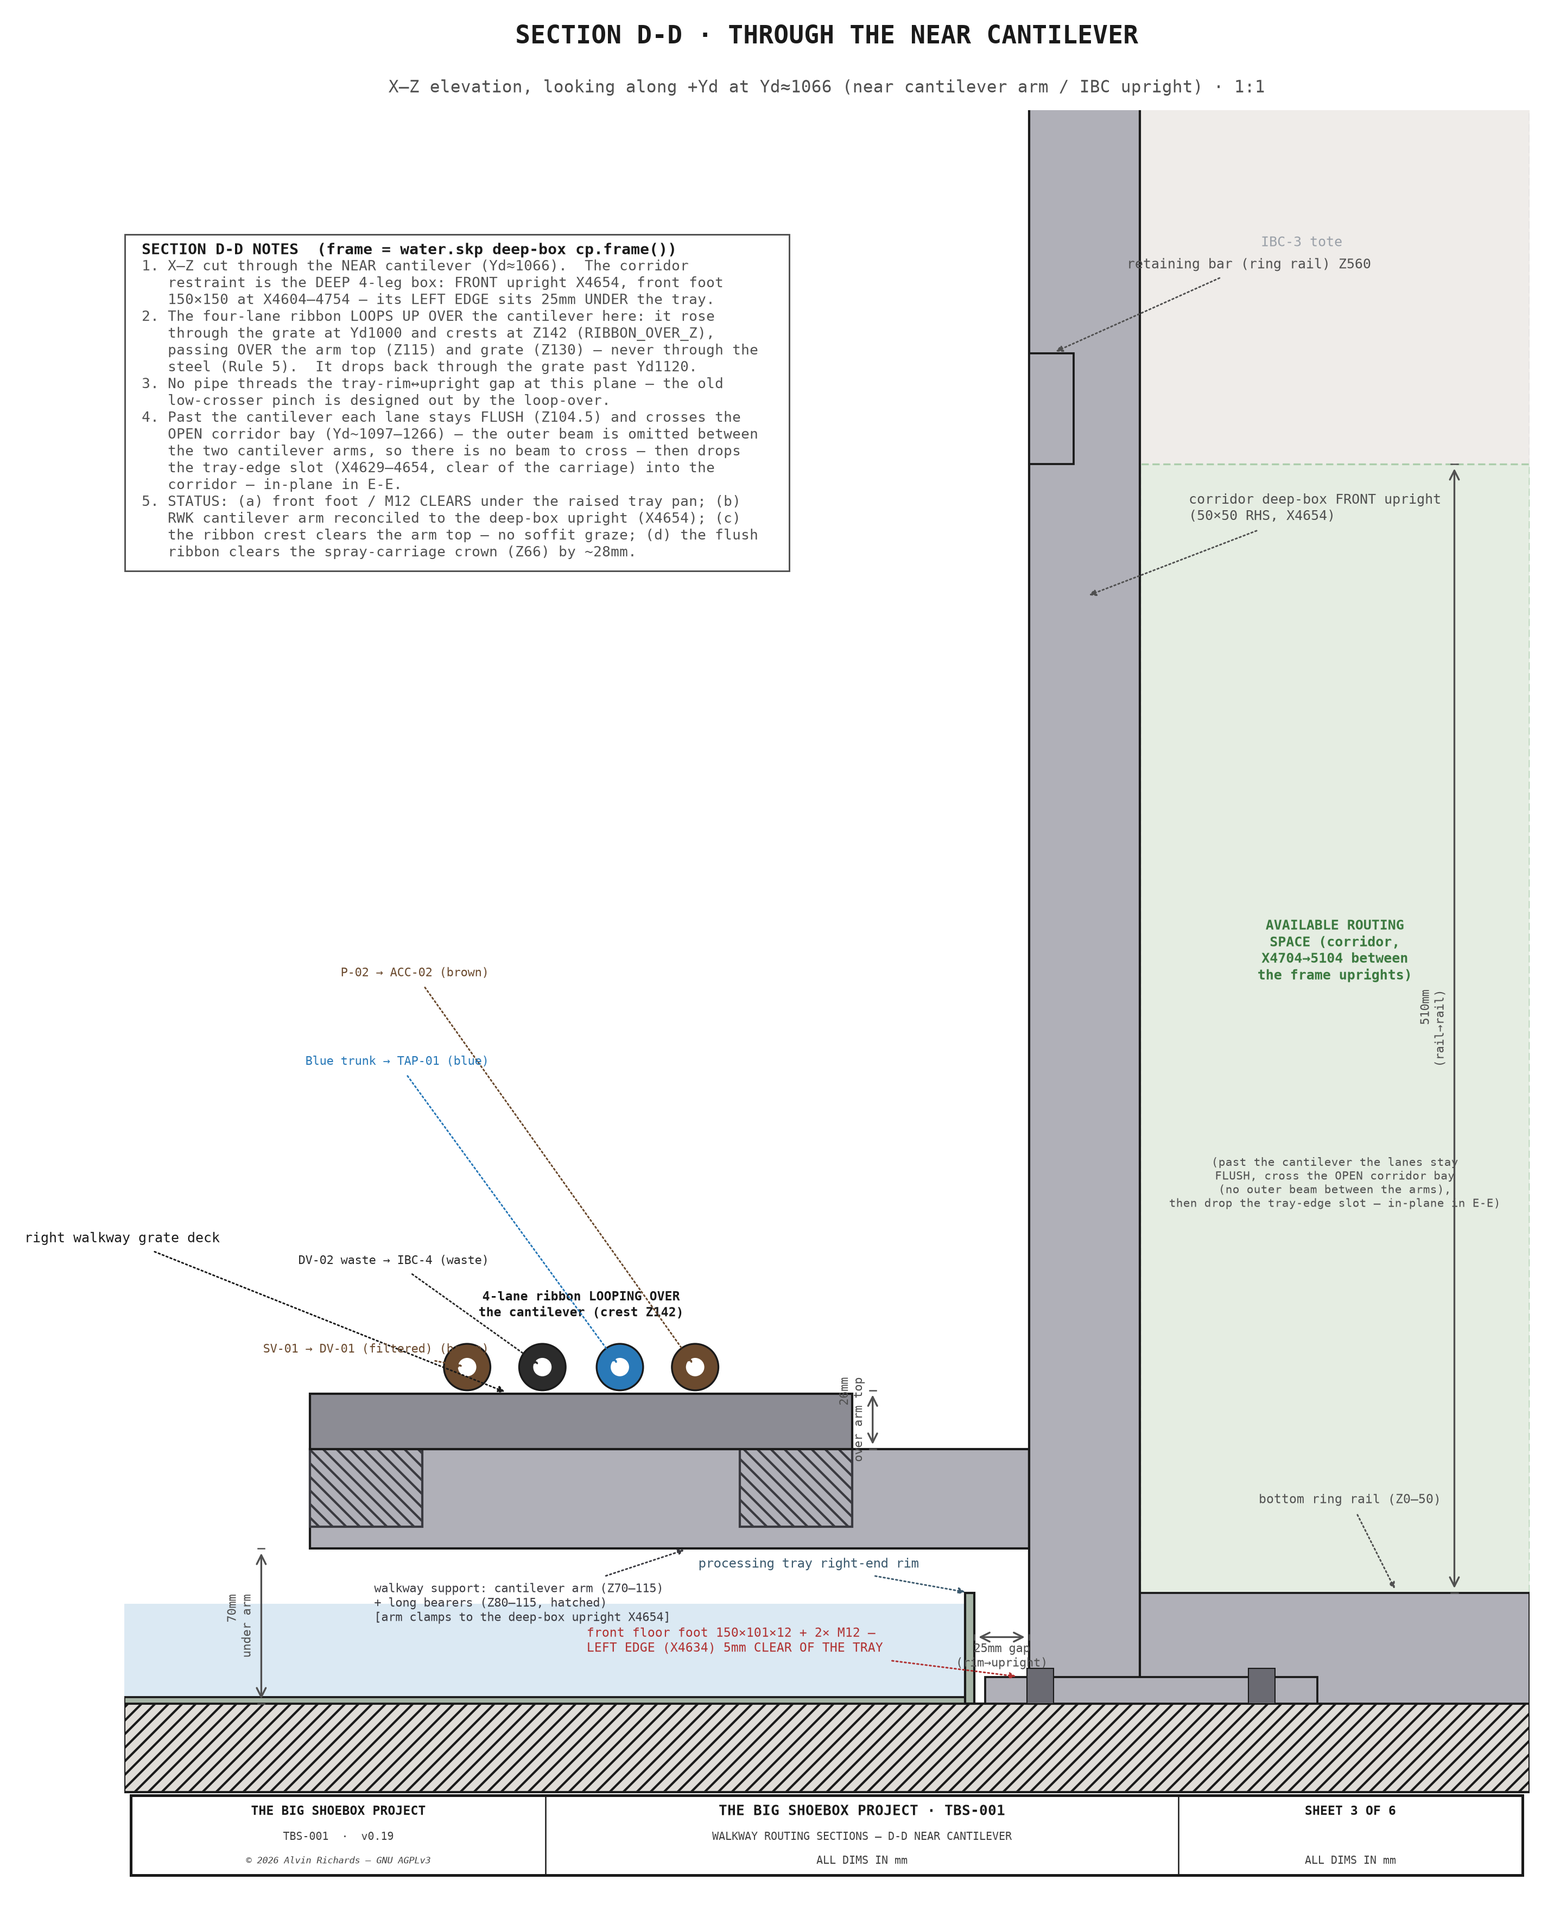
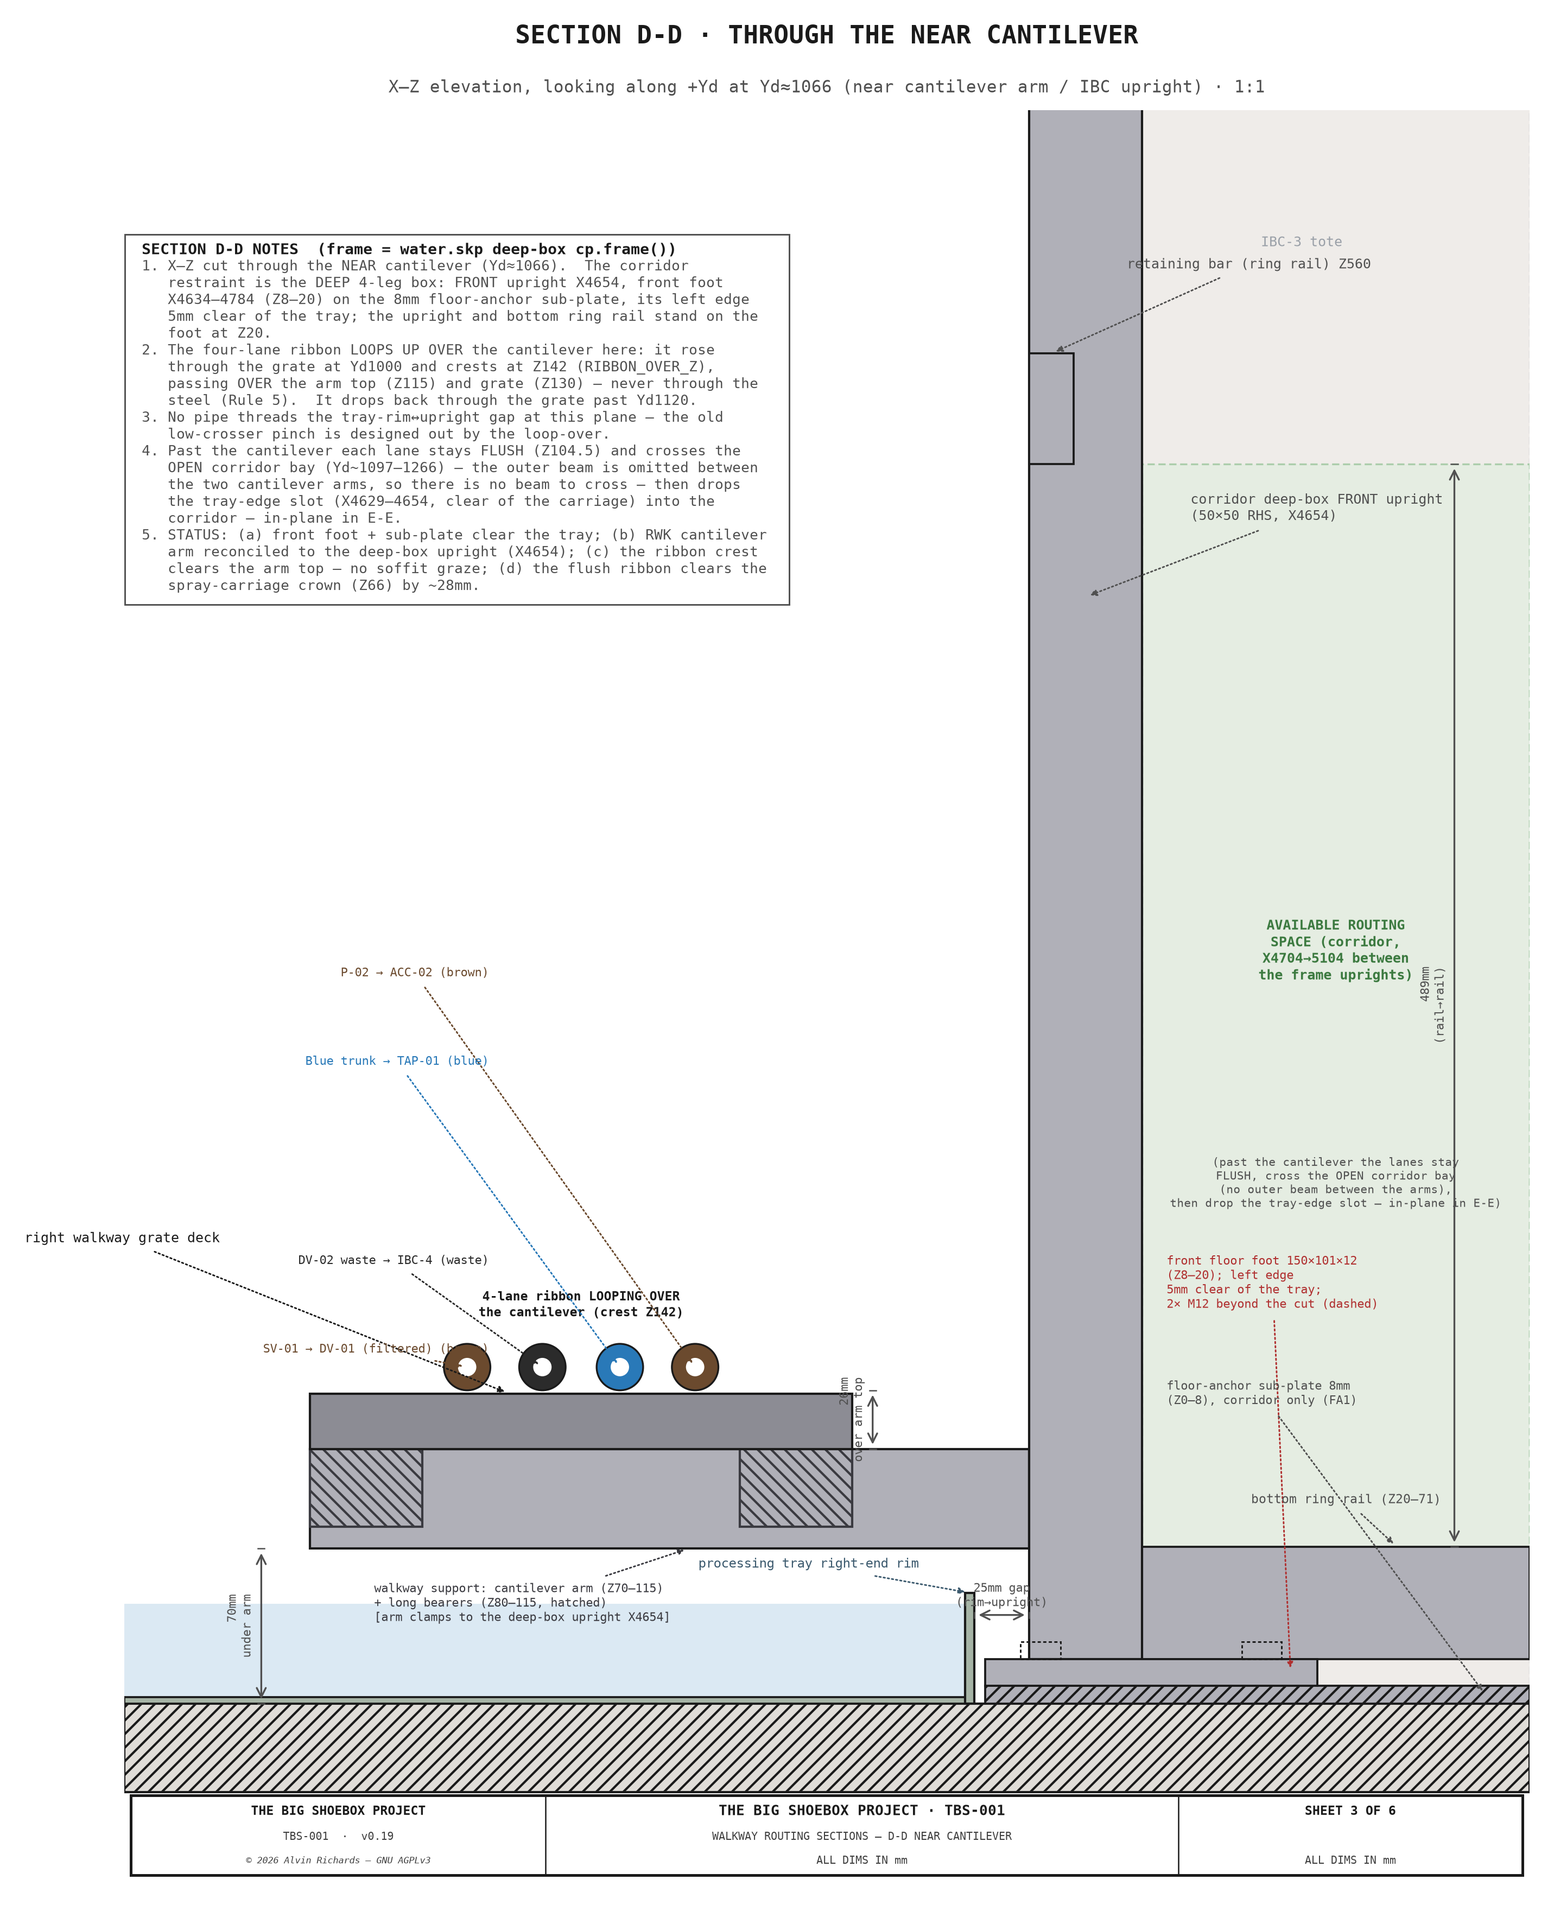
Walkway sections D-D/F-F: frame base as built — sub-plate Z0–8, foot plate Z8–20, upright + bottom ring rail from Z20; foot bolts shown hidden (beyond the cut); geometry from constants

diff --git a/src/generators/generate_walkway_sections.py b/src/generators/generate_walkway_sections.py
@@ -33,7 +33,7 @@ sys.path.insert(0, os.path.join(os.path.dirname(os.path.abspath(__file__)),
 import generate_corridor_water_panel as cp   # ribbon geometry (single source)
 import generate_pinhole_water_panel as pw    # P-02/DV-01/SV-01 + ribbon corridor ends (water.skp build)
 from tbs_constants import IBC_COL_X, WALKWAY_H, WALKWAY_GRATE_T, WALKWAY_RIGHT_X, WALKWAY_RIGHT_W, WALKWAY_LEFT_X, WALKWAY_W, RWK_BEARER_W, RWK_BEARER_XS, RWK_BEARER_Z0, PROC_TRAY_X_R, PROC_TRAY_X_L, PROC_TRAY_RIM, PROC_TRAY_YD_NEAR, PROC_TRAY_YD_FAR, PROC_TRAY_D, PROC_TRAY_SUMP_Z, PROC_TRAY_SUMP_W, PROC_TRAY_DRAIN_X, PROC_TRAY_FLOOR_Z_LOW, tray_floor_z, tray_rim_top_z, spray_beam_top_z, DIAGRAMS_DIR
-from tbs_constants import IBC_FOOT_PLATE, IBC_FOOT_PLATE_D, IBC_FOOT_PLATE_T, IBC_FOOT_BOLT_PCD, IBC_FOOT_BOLT_N, IBC_FOOT_TRAY_GAP, IBC_FRONT_FOOT_DX
+from tbs_constants import FLOOR_PLATE_T, IBC_FOOT_PLATE, IBC_FOOT_PLATE_D, IBC_FOOT_PLATE_T, IBC_FOOT_BOLT_PCD, IBC_FOOT_BOLT_N, IBC_FOOT_TRAY_GAP, IBC_FRONT_FOOT_DX
 from tbs_constants import DIAGRAM_DPI, FONT, BG, C_OUT, C_DIM, C_STEEL, C_PIPE_FRESH, C_PIPE_RECYCLE, C_PIPE_WASTE
 
 # ── Palette (C_OUT/C_DIM from tbs_constants) ─────────────────────────────────────
@@ -94,17 +94,32 @@ def _ribbon_circles(ax, z=None, r=None, z0=12, label=False, fs=5.4):
 # water.skp restraint = cp.frame() DEEP 4-leg box: FRONT upright X4654; the front foot is shifted +X
 # (IBC_FRONT_FOOT_DX) so its left edge clears the tray right edge by IBC_FOOT_TRAY_GAP.
 ARM_X0, ARM_X1, ARM_ZB, ARM_ZT = WALKWAY_RIGHT_X, 4654, 70, 115   # RWK cantilever arm — clamps to the deep-box upright X4654 (reconciled from 4734)
-UP_X0, UP_X1 = 4654, 4704            # corridor deep-box FRONT upright (50×50 RHS)
+UP_X0, UP_X1 = cp.FRONT_X, cp.FRONT_X + cp.S                     # corridor deep-box FRONT upright (2×2 SHS)
+SUB_ZT = FLOOR_PLATE_T                                             # floor-anchor sub-plate Z0–8 (feet + rails sit on it)
+FRAME_Z0 = cp.FRAME_BASE_Z                                         # upright + bottom-rail base Z20 (on the foot plate)
 _FOOT_CX = cp.FRONT_X + cp.S / 2 + IBC_FRONT_FOOT_DX
-FOOT_X0, FOOT_X1, FOOT_ZT = _FOOT_CX - IBC_FOOT_PLATE / 2, _FOOT_CX + IBC_FOOT_PLATE / 2, IBC_FOOT_PLATE_T   # front floor foot
-M12_XS = [_FOOT_CX - IBC_FOOT_BOLT_PCD / 2, _FOOT_CX + IBC_FOOT_BOLT_PCD / 2]   # the foot's 2× M12 (corridor-side tab)
-BRAIL_X0, BRAIL_X1, BRAIL_Z = 4704, 5104, 50                      # deep-box BOTTOM ring rail (X), Z0-50
+FOOT_X0, FOOT_X1 = _FOOT_CX - IBC_FOOT_PLATE / 2, _FOOT_CX + IBC_FOOT_PLATE / 2   # front floor foot, Z8–20
+SUB_X0, SUB_X1 = FOOT_X0, cp.BACK_X + cp.S / 2 + IBC_FOOT_PLATE / 2 + 30          # sub-plate X span (= the 3D)
+M12_XS = [_FOOT_CX - IBC_FOOT_BOLT_PCD / 2, _FOOT_CX + IBC_FOOT_BOLT_PCD / 2]   # the foot's bolts (corridor-side tab, beyond the cut)
+BRAIL_X0, BRAIL_Z = UP_X1, FRAME_Z0 + cp.S                        # deep-box BOTTOM ring rail (X), Z20–70.8 — BRAIL_Z = its top
 RAIL_X0, RAIL_X1, RAIL_ZB, RAIL_ZT = 4654, 4674, 560, 610         # front retaining bar (ring rail) Z560
 
 
 def _rect(ax, x, z, w, h, fc, ec=C_OUT, lw=0.9, hatch=None, z0=5, alpha=1.0, ls="-"):
     ax.add_patch(Rectangle((x, z), w, h, facecolor=fc, edgecolor=ec,
                             linewidth=lw, hatch=hatch, zorder=z0, alpha=alpha, linestyle=ls))
+
+
+def _frame_base(ax, x_hi, z_top):
+    """Deep-box frame base in a cut at an upright's Yd: sub-plate on the floor, foot plate on it, upright +
+    bottom ring rail standing on the foot, the foot bolts (in the corridor-side tab, beyond the cut)."""
+    _rect(ax, SUB_X0, 0, min(SUB_X1, x_hi) - SUB_X0, SUB_ZT, C_STEEL, lw=0.9, z0=8, hatch="////")      # sub-plate
+    _rect(ax, FOOT_X0, SUB_ZT, FOOT_X1 - FOOT_X0, IBC_FOOT_PLATE_T, C_STEEL, lw=0.9, z0=8)           # foot plate
+    _rect(ax, UP_X0, FRAME_Z0, UP_X1 - UP_X0, z_top - FRAME_Z0, C_STEEL, lw=1.0, z0=6)               # upright
+    _rect(ax, BRAIL_X0, FRAME_Z0, x_hi - BRAIL_X0, BRAIL_Z - FRAME_Z0, C_STEEL, lw=0.9, z0=5)        # bottom ring rail
+    for mx in M12_XS:                                                     # bolt heads beyond the cut, hidden by the upright/rail
+        _rect(ax, mx - 9, FRAME_Z0, 18, 8, "none", ec=C_OUT, lw=0.7, z0=10, ls=(0, (2, 1.5)))
+
 
 
 def _crossing_gaps(a, b, obstacles, gap):
@@ -508,18 +523,17 @@ def sheet3():
            color=C_OUT, fs=6, ha="left", va="center", arrow_style="-|>", font=FONT)
 
     # ── Deep-box FRONT upright + front foot (extends UNDER the tray) + M12 + bottom rail + retaining bar ──
-    _rect(ax, UP_X0, 0, UP_X1 - UP_X0, Z_HI - Z_LO, C_STEEL, lw=1.0, z0=6)                  # front upright X4654-4704
-    _rect(ax, BRAIL_X0, 0, X_HI - BRAIL_X0, BRAIL_Z, C_STEEL, lw=0.9, z0=5)                 # deep-box bottom ring rail (→X5104)
-    _rect(ax, FOOT_X0, 0, FOOT_X1 - FOOT_X0, FOOT_ZT, C_STEEL, lw=0.9, z0=8)                # front foot
-    for mx in M12_XS:
-        _rect(ax, mx - 6, 0, 12, 16, "#6A6A72", lw=0.5, z0=9)
+    _frame_base(ax, X_HI, Z_HI - Z_LO)
     _rect(ax, RAIL_X0, RAIL_ZB, RAIL_X1 - RAIL_X0, RAIL_ZT - RAIL_ZB, C_STEEL, lw=0.9, z0=7)  # retaining bar Z560
     leader(ax, (UP_X0 + UP_X1) / 2, 500, UP_X1 + 22, 540, "corridor deep-box FRONT upright\n(50×50 RHS, X4654)",
            color=C_DIM, fs=6, ha="left", va="center", arrow_style="-|>", font=FONT)
-    leader(ax, FOOT_X0 + 16, FOOT_ZT, PROC_TRAY_X_R - 175, 35,
-           f"front floor foot {IBC_FOOT_PLATE}×{IBC_FOOT_PLATE_D:.0f}×{IBC_FOOT_PLATE_T} + {IBC_FOOT_BOLT_N}× M12 —\nLEFT EDGE (X{FOOT_X0:.0f}) {IBC_FOOT_TRAY_GAP}mm CLEAR OF THE TRAY",
-           color="#B03030", fs=5.5, ha="left", va="top", arrow_style="-|>", font=FONT)
-    leader(ax, X_HI - 60, BRAIL_Z, X_HI - 40, 92, "bottom ring rail (Z0–50)",
+    leader(ax, FOOT_X1 - 12, SUB_ZT + IBC_FOOT_PLATE_T / 2, 4716, 190,
+           f"front floor foot {IBC_FOOT_PLATE}×{IBC_FOOT_PLATE_D:.0f}×{IBC_FOOT_PLATE_T}\n(Z{SUB_ZT}–{FRAME_Z0}); left edge\n{IBC_FOOT_TRAY_GAP}mm clear of the tray;\n{IBC_FOOT_BOLT_N}× M12 beyond the cut (dashed)",
+           color="#B03030", fs=5.2, ha="left", va="center", arrow_style="-|>", font=FONT)
+    leader(ax, 4860, SUB_ZT / 2, 4716, 140,
+           f"floor-anchor sub-plate {SUB_ZT}mm\n(Z0–{SUB_ZT}), corridor only (FA1)",
+           color=C_DIM, fs=5.2, ha="left", va="center", arrow_style="-|>", font=FONT)
+    leader(ax, X_HI - 60, BRAIL_Z, X_HI - 40, 92, f"bottom ring rail (Z{FRAME_Z0}–{BRAIL_Z:.0f})",
            color=C_DIM, fs=5.6, ha="right", va="center", arrow_style="-|>", font=FONT)
     leader(ax, (RAIL_X0 + RAIL_X1) / 2, RAIL_ZT, RAIL_X1 + 24, RAIL_ZT + 40,
            "retaining bar (ring rail) Z560", color=C_DIM, fs=6, ha="left", va="center",
@@ -543,17 +557,17 @@ def sheet3():
             fontsize=5.0, ha="center", va="center", color=C_DIM, zorder=10, **FONT)
 
     # ── Dimensions ───────────────────────────────────────────────────────────
-    draw_dim_v(ax, X_HI - 34, BRAIL_Z, RAIL_ZB, f"{RAIL_ZB - BRAIL_Z}mm\n(rail→rail)", offset=5, fs=5.4, font=FONT)
+    draw_dim_v(ax, X_HI - 34, BRAIL_Z, RAIL_ZB, f"{RAIL_ZB - BRAIL_Z:.0f}mm\n(rail→rail)", offset=5, fs=5.4, font=FONT)
     draw_dim_v(ax, ARM_X0 - 22, 0, ARM_ZB, f"{ARM_ZB}mm\nunder arm", offset=5, fs=5.4, font=FONT)
-    draw_dim_h(ax, PROC_TRAY_X_R, UP_X0, 30, f"{UP_X0 - PROC_TRAY_X_R}mm gap\n(rim→upright)", offset=4, fs=5.2, above=False, font=FONT)
+    draw_dim_h(ax, PROC_TRAY_X_R, UP_X0, 40, f"{UP_X0 - PROC_TRAY_X_R}mm gap\n(rim→upright)", offset=4, fs=5.2, above=True, font=FONT)
 
     notes = [
         "SECTION D-D NOTES  (frame = water.skp deep-box cp.frame())",
-        "1. X–Z cut through the NEAR cantilever (Yd≈1066).  The corridor restraint is the DEEP 4-leg box: FRONT upright X4654, front foot 150×150 at X4604–4754 — its LEFT EDGE sits 25mm UNDER the tray.",
+        f"1. X–Z cut through the NEAR cantilever (Yd≈1066).  The corridor restraint is the DEEP 4-leg box: FRONT upright X4654, front foot X{FOOT_X0:.0f}–{FOOT_X1:.0f} (Z{SUB_ZT}–{FRAME_Z0}) on the {SUB_ZT}mm floor-anchor sub-plate, its left edge {IBC_FOOT_TRAY_GAP}mm clear of the tray; the upright and bottom ring rail stand on the foot at Z{FRAME_Z0}.",
         "2. The four-lane ribbon LOOPS UP OVER the cantilever here: it rose through the grate at Yd1000 and crests at Z142 (RIBBON_OVER_Z), passing OVER the arm top (Z115) and grate (Z130) — never through the steel (Rule 5).  It drops back through the grate past Yd1120.",
         "3. No pipe threads the tray-rim↔upright gap at this plane — the old low-crosser pinch is designed out by the loop-over.",
         "4. Past the cantilever each lane stays FLUSH (Z104.5) and crosses the OPEN corridor bay (Yd~1097–1266) — the outer beam is omitted between the two cantilever arms, so there is no beam to cross — then drops the tray-edge slot (X4629–4654, clear of the carriage) into the corridor — in-plane in E-E.",
-        "5. STATUS: (a) front foot / M12 CLEARS under the raised tray pan; (b) RWK cantilever arm reconciled to the deep-box upright (X4654); (c) the ribbon crest clears the arm top — no soffit graze; (d) the flush ribbon clears the spray-carriage crown (Z66) by ~28mm.",
+        "5. STATUS: (a) front foot + sub-plate clear the tray; (b) RWK cantilever arm reconciled to the deep-box upright (X4654); (c) the ribbon crest clears the arm top — no soffit graze; (d) the flush ribbon clears the spray-carriage crown (Z66) by ~28mm.",
     ]
     draw_notes(ax, notes, X_LO + 8, Z_HI - 60, 7.6, fs=6.2,
                font=FONT, width=285, wrap=72, border_color=C_DIM, border_lw=0.7)
@@ -732,14 +746,10 @@ def sheet5():
     leader(ax, 4500, ARM_ZB, 4358, 60, "walkway support: far cantilever arm (Z70–115)\n+ long bearers (Z80–115, hatched)", color="#3A3A40", fs=5.2, ha="left", va="top", arrow_style="-|>", font=FONT)
     leader(ax, WALKWAY_RIGHT_X + 90, WALKWAY_H, 4358, 175, "right walkway grate deck (Z115–130)", color=C_OUT, fs=6, ha="left", va="center", arrow_style="-|>", font=FONT)
     # far upright + far foot (also under tray) + M12 + bottom rail + retaining bar
-    _rect(ax, UP_X0, 0, UP_X1 - UP_X0, Z_HI - Z_LO, C_STEEL, lw=1.0, z0=6)                     # far upright X4654-4704
-    _rect(ax, BRAIL_X0, 0, X_HI - BRAIL_X0, BRAIL_Z, C_STEEL, lw=0.9, z0=5)                    # bottom ring rail
-    _rect(ax, FOOT_X0, 0, FOOT_X1 - FOOT_X0, FOOT_ZT, C_STEEL, lw=0.9, z0=8)                   # far foot
-    for mx in M12_XS:
-        _rect(ax, mx - 6, 0, 12, 16, "#6A6A72", lw=0.5, z0=9)
+    _frame_base(ax, X_HI, Z_HI - Z_LO)
     _rect(ax, RAIL_X0, RAIL_ZB, RAIL_X1 - RAIL_X0, RAIL_ZT - RAIL_ZB, C_STEEL, lw=0.9, z0=7)   # retaining bar
     leader(ax, (UP_X0 + UP_X1) / 2, 500, UP_X1 + 22, 540, "corridor deep-box FAR upright\n(50×50 RHS)", color=C_DIM, fs=6, ha="left", va="center", arrow_style="-|>", font=FONT)
-    leader(ax, FOOT_X0 + 16, FOOT_ZT, PROC_TRAY_X_R - 150, 35, f"far floor foot {IBC_FOOT_PLATE}×{IBC_FOOT_PLATE_D:.0f}×{IBC_FOOT_PLATE_T} —\nLEFT EDGE {IBC_FOOT_TRAY_GAP}mm CLEAR OF THE TRAY", color="#B03030", fs=5.5, ha="left", va="top", arrow_style="-|>", font=FONT)
+    leader(ax, FOOT_X0 + 10, SUB_ZT + IBC_FOOT_PLATE_T, PROC_TRAY_X_R - 150, 35, f"far floor foot {IBC_FOOT_PLATE}×{IBC_FOOT_PLATE_D:.0f}×{IBC_FOOT_PLATE_T} —\nLEFT EDGE {IBC_FOOT_TRAY_GAP}mm CLEAR OF THE TRAY", color="#B03030", fs=5.5, ha="left", va="top", arrow_style="-|>", font=FONT)
     leader(ax, (RAIL_X0 + RAIL_X1) / 2, RAIL_ZT, RAIL_X1 + 54, RAIL_ZT + 40, "retaining bar (ring rail)", color=C_DIM, fs=6, ha="left", va="center", arrow_style="-|>", font=FONT)
     # nearest corridor lane (blue SV-01 → DV-01 return, Yd1241) — ghost, -Yd of this plane
     ax.add_patch(Circle((4772, 235), OD / 2, facecolor="none", edgecolor=C_BLUE, lw=1.4, ls="--", zorder=9))
@@ -747,7 +757,7 @@ def sheet5():
 
     notes = [
         "SECTION F-F NOTES",
-        "1. Far cantilever (Yd≈1286) — mirrors D-D on the far side of the corridor: arm off the FAR IBC upright (X4654), foot X4604–4754 again extending 25mm UNDER the tray.",
+        f"1. Far cantilever (Yd≈1286) — mirrors D-D on the far side of the corridor: arm off the FAR IBC upright (X{UP_X0}); foot X{FOOT_X0:.0f}–{FOOT_X1:.0f} on the {SUB_ZT}mm floor-anchor sub-plate, {IBC_FOOT_TRAY_GAP}mm clear of the tray.",
         "2. The ribbon loops over the NEAR cantilever only and drops into the corridor by Yd1120 — no line crosses this far cantilever.",
         "3. The nearest corridor lane is the blue SV-01 → DV-01 return (Yd1241), just −Yd of this plane — ghosted.  See E-E for the lanes in-plane.",
     ]

diff --git a/RELEASE.md b/RELEASE.md
@@ -27,7 +27,7 @@ is no separate publish step to run afterward.
 ## [Unreleased]
 
 - **IBC outlet valve height 140mm.** The tote outlet valve centerline drops from 185mm to 140mm above the floor, as confirmed by Schütz for the standard MX 1000 DN50 valve on both pallet types. IBC frame Sheet 1 follows.
-- **IBC frame feet are corridor-only.** The bottom totes were drawn standing through the frame's feet and floor sub-plate. Each foot plate (now 150×101×12) runs from its upright's tote-side face inboard, and a 50mm tab on its corridor side carries its 2× M12 (was 4). The sub-plate (~600×270×8) spans only between the uprights, so nothing reaches under a pallet. The narrow front bottom rail moves flush with the front uprights' +X face so the front-foot bolts straddle it, 30mm clear of the tray. The 3D, IBC frame and plate-schedule sheets, floor-anchor map, stacking and walkway sections, parts and costing follow (−$23/−$43).
+- **IBC frame feet are corridor-only.** The bottom totes were drawn standing through the frame's feet and floor sub-plate. Each foot plate (now 150×101×12) runs from its upright's tote-side face inboard, and a 50mm tab on its corridor side carries its 2× M12 (was 4). The sub-plate (~600×270×8) spans only between the uprights, so nothing reaches under a pallet. The narrow front bottom rail moves flush with the front uprights' +X face so the front-foot bolts straddle it, 30mm clear of the tray. Walkway sections D-D and F-F now draw the frame base as built: sub-plate on the floor, foot plate on it, and the upright and bottom ring rail standing at Z20. The 3D, IBC frame and plate-schedule sheets, floor-anchor map, stacking and walkway sections, parts and costing follow (−$23/−$43).
 - **Light-trap apron base sits on the floor sub-plate.** The left floor-anchor sub-plate runs from the door frame (its only anchor is the door-end sill), and the apron's fixed plywood base was drawn standing on the floor straight through it. The base is now 8mm shorter (Z8–130, cut 122mm tall) and stands on top of the plate. The clash checker gains a floor sub-plate pass: nothing may pass through a floor sub-plate (parts standing on it only touch its top). Its same-color solids pass could not see steel against plywood. Updated: the lighttrap 3D model, hinged-panel Sheet 16, the plywood cut sheets and the hinged-panel report.
 - **Pivot-post mount plates narrowed; clash checker fixed.** The pivot floor/roof plates go from 200 to 170mm in X (bolts ±70 → ±60mm), so the floor plate stands 20mm off the processing tray instead of 5mm; the bolt heads still clear the Ø89 post. The clash checker's tray keep-out box now comes from the tray constants — it still used the June tray edge (X170, now X280), which flagged the pivot-plate bolts falsely.
 - **IP65 enclosure resized and re-sourced.** The DC-distribution box is now a Gratury 290×190×140mm stainless IP65 box (Amazon B08282SQPT, $24.99), replacing the Polycase ZH-080804 (−$17 rounded, drops Polycase as a supplier). Its size and position are one setting (`IP65_ENCL_*`), used by the electrical model and the EP panel elevation (electrical sheet 5); it sits inside the plywood side lips, clear of the disconnect row and the MPPT. The metal box bonds to the main-panel ground.
